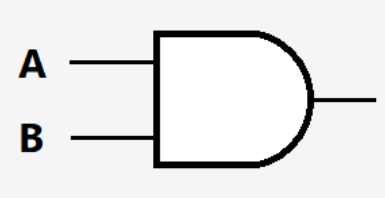
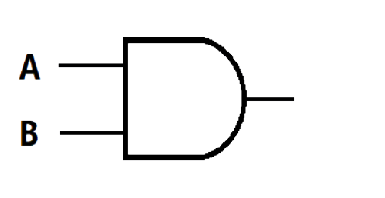
AND image Adjustment
Adjusted AND logic gate images by making the background transparent and changing image dimensions.

Implemented within AND case image replacement to display AND gate evaluated.

Change setLayout from FlowLayout to BorderLaout for better image placement.

Changed region(s): [[0.1558, 0.1515, 0.9974, 0.8788], [0.0312, 0.6061, 0.1247, 0.7879], [0.0312, 0.2424, 0.1247, 0.4242]]

diff --git a/src/LogicGateGUI.java b/src/LogicGateGUI.java
@@ -16,7 +16,11 @@ public class LogicGateGUI extends JFrame{
 		setSize(600,400); //size of screen
 		
 		setDefaultCloseOperation(EXIT_ON_CLOSE); //exits program when window is closed
-		setLayout(new FlowLayout());
+		setLayout(new BorderLayout());
+		
+		//controls panel
+		JPanel controlsPanel = new JPanel();
+		controlsPanel.setLayout(new FlowLayout());
 		
 		//declaring variables
 		inputA = new JCheckBox("Input A");
@@ -30,16 +34,21 @@ public class LogicGateGUI extends JFrame{
 		evaluateButton.addActionListener(e -> evaluateGate());//listener event
 		
 		imageLabel = new JLabel(); //constructs an image
-		add(imageLabel); //adds image to the main GUI
+		imageLabel.setHorizontalAlignment(SwingConstants.CENTER);
+		
+		add(controlsPanel, BorderLayout.NORTH);
+		add(imageLabel, BorderLayout.CENTER);
+		
+		
 		
 		gateSelector.addActionListener(e -> updateGateImage());
 		
 		//adds each GUI component
-		add(gateSelector);
-		add(inputA);
-		add(inputB);
-		add(outputLabel);
-		add(evaluateButton);
+		controlsPanel.add(gateSelector);
+		controlsPanel.add(inputA);
+		controlsPanel.add(inputB);
+		controlsPanel.add(outputLabel);
+		controlsPanel.add(evaluateButton);
 		
 		
 	}
@@ -54,7 +63,9 @@ public class LogicGateGUI extends JFrame{
 
 		//error catching
 		if (imagePath != null) {
-			imageLabel.setIcon(new ImageIcon(imagePath));
+			ImageIcon icon = new ImageIcon(imagePath);
+			Image scaled = icon.getImage().getScaledInstance(200,150, Image.SCALE_SMOOTH);
+			imageLabel.setIcon(new ImageIcon(scaled));
 		}
 		else {
 			imageLabel.setIcon(null);
@@ -73,7 +84,12 @@ public class LogicGateGUI extends JFrame{
 		switch(selectedGate) {
 			case "AND":{
 				result = LogicGateApp.andGate(a,b);
-
+				
+				//image replacement
+				String imagePath = "images/AND_gate_Evaluated.png";
+				ImageIcon icon = new ImageIcon(imagePath);
+				Image scaled = icon.getImage().getScaledInstance(200, 150, Image.SCALE_SMOOTH);
+				imageLabel.setIcon(new ImageIcon(scaled));
 				break;//exits loop
 			}
 			case "OR":{
@@ -90,6 +106,7 @@ public class LogicGateGUI extends JFrame{
 			}
 		}
 		outputLabel.setText("Output: " + result);//display result
+
 	}
 	
 	
